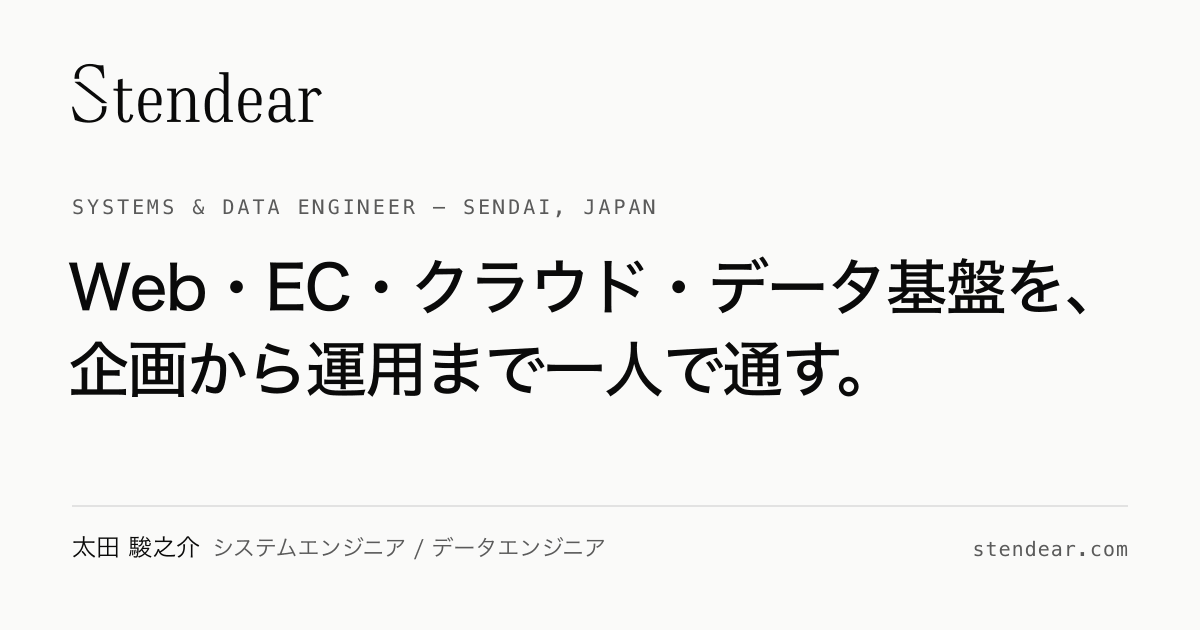
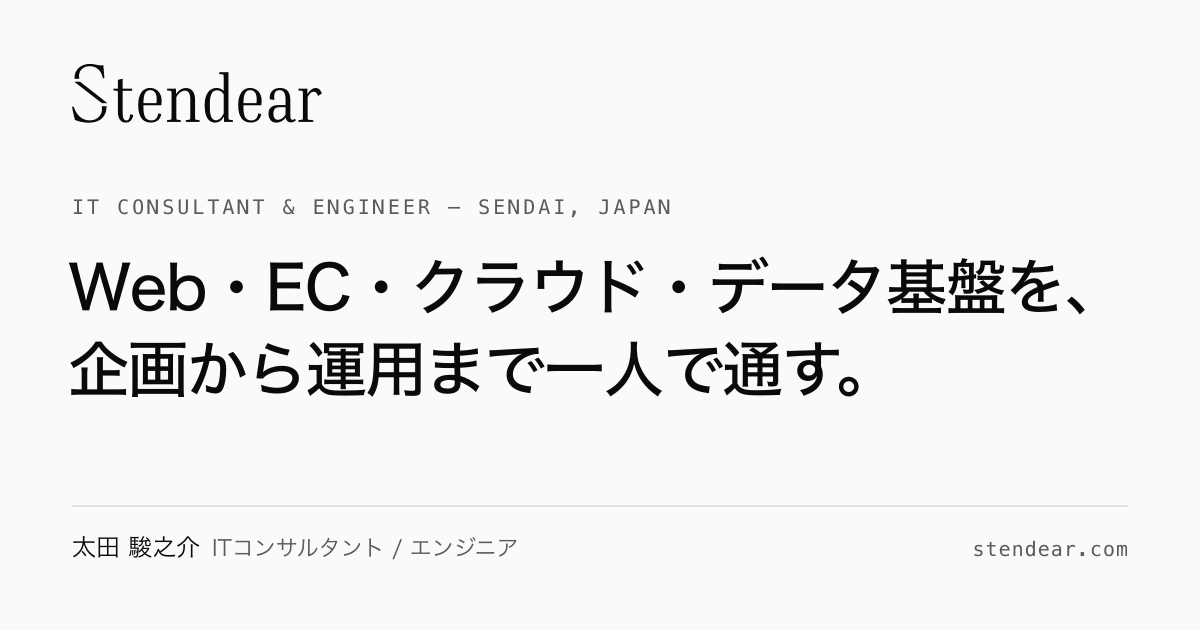
chore: 肩書きを「ITコンサルタント / エンジニア」に変更
サイト全体の肩書き表記を更新（Hero ラベル・About・フッター・JSON-LD の
jobTitle・meta description・OG 画像）。英語表記は IT Consultant & Engineer。
あわせて iCloud/Finder が作る "name 2.ext" 形式の重複ファイルを .gitignore に追加。

diff --git a/src/content/site.ts b/src/content/site.ts
@@ -8,13 +8,13 @@ export const SITE = {
   /** <title> のデフォルト */
   title: 'Stendear | 太田駿之介 — Web・EC・クラウド・データ基盤・広告制作の受託開発',
   description:
-    '仙台のシステムエンジニア／データエンジニア 太田駿之介の個人開発ブランド。Webサイト・Webアプリ開発、Salesforce Commerce Cloud によるEC構築、AWS クラウド構築、Snowflake / Databricks によるデータ基盤構築、チラシ・バナーなどの広告制作まで、企画から運用まで一貫して対応します。',
+    '仙台のITコンサルタント／エンジニア 太田駿之介の個人開発ブランド。Webサイト・Webアプリ開発、Salesforce Commerce Cloud によるEC構築、AWS クラウド構築、Snowflake / Databricks によるデータ基盤構築、チラシ・バナーなどの広告制作まで、企画から運用まで一貫して対応します。',
   locale: 'ja_JP',
   owner: {
     name: '太田 駿之介',
     nameEn: 'Shunnosuke Ota',
-    title: 'システムエンジニア / データエンジニア',
-    titleEn: 'Systems & Data Engineer',
+    title: 'ITコンサルタント / エンジニア',
+    titleEn: 'IT Consultant & Engineer',
     location: '宮城県仙台市',
     locationEn: 'Sendai, Japan',
     birthYear: 2001,

diff --git a/src/app/about/page.tsx b/src/app/about/page.tsx
@@ -13,7 +13,7 @@ import ContactCta from '@/components/sections/ContactCta'
 export const metadata: Metadata = pageMetadata({
   title: 'About — 太田駿之介のプロフィールと経歴',
   description:
-    '宮城県仙台市のシステムエンジニア／データエンジニア 太田駿之介のプロフィール。高専（建築）から建設、IT（ECのPL/PM）、外資系コンサルティングファームのデータエンジニアへ。ブランド Stendear の由来、経歴、資格、そして少しの遊び心。',
+    '宮城県仙台市のITコンサルタント／エンジニア 太田駿之介のプロフィール。高専（建築）から建設、IT（ECのPL/PM）、外資系コンサルティングファームのデータエンジニアへ。ブランド Stendear の由来、経歴、資格、そして少しの遊び心。',
   path: '/about',
   type: 'article',
 })

diff --git a/docs/image-prompts.md b/docs/image-prompts.md
@@ -36,11 +36,11 @@ SNS シェア用の OG 画像を作ってください。
 - 出力：1200×630px、PNG、背景 #FAFAF9
 - 構成（上から）：
   1) 左上にワードマーク「Stendear」をセリフ体の細身の書体で（高さ約 60px）。添付のロゴ SVG をそのまま配置
-  2) 小さな等幅の英字ラベル「SYSTEMS & DATA ENGINEER — SENDAI, JAPAN」（文字色 #5A5A5A、字間広め）
+  2) 小さな等幅の英字ラベル「IT CONSULTANT & ENGINEER — SENDAI, JAPAN」（文字色 #5A5A5A、字間広め）
   3) 見出し（日本語、ゴシック体・太め、2行、各行 61px 程度）：
      「Web・EC・クラウド・データ基盤を、」
      「企画から運用まで一人で通す。」
-  4) 下部に 1px の薄い横罫線。その下に左寄せで「太田 駿之介　システムエンジニア / データエンジニア」、右寄せで等幅「stendear.com」
+  4) 下部に 1px の薄い横罫線。その下に左寄せで「太田 駿之介　ITコンサルタント / エンジニア」、右寄せで等幅「stendear.com」
 - 余白は左右 72px。要素は左揃えで整然と。写真・イラスト・装飾は不要
 - 色は #0A0A0A と #5A5A5A のみ。グラデーション・影・角丸カードは使わない
 - 日本語の字形が崩れないこと。文字は必ず指定どおりに（誤字・疑似文字は不可）
